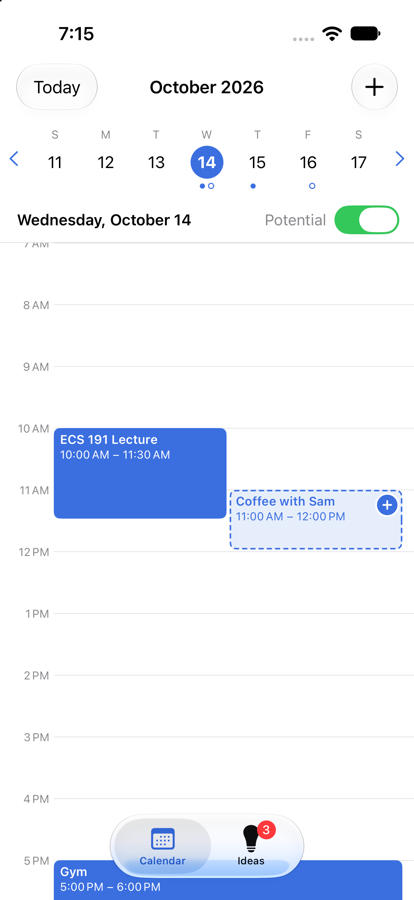
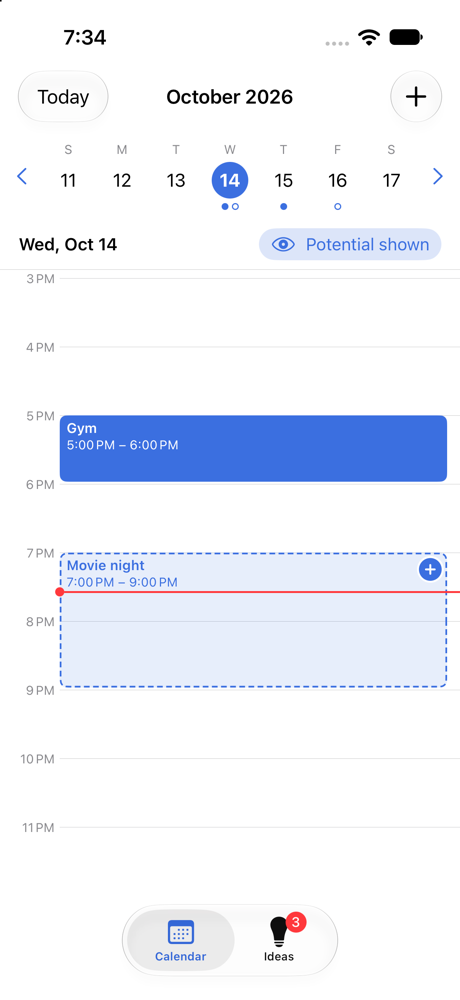
Fix bugs found in simulator testing
- Replace the potential-layer switch (could not be turned back on)
  with an eye button that shows how many plans are hidden
- Scroll the day view to the current time, the day's first plan, or a
  just-saved event so new plans are never off-screen
- Keep the date header on one line; center week-strip dots
- Add an empty-day hint and auto-focus the title for new events
- Haptic on confirm and VoiceOver labels for events and hours
- README: correct clone path, quick walkthrough, new screenshot

diff --git a/MaybeCalendar/CalendarView.swift b/MaybeCalendar/CalendarView.swift
@@ -3,28 +3,28 @@ import SwiftUI
 struct CalendarView: View {
     @Environment(Store.self) private var store
     @Binding var selectedDay: Date
+    /// When set, the timeline scrolls to this time (e.g. right after saving an event).
+    @Binding var focusDate: Date?
     @State private var editor: EditorRequest?
+    @State private var confirmCount = 0
 
     var body: some View {
-        @Bindable var store = store
-        let hiddenCount = store.showPotential ? 0
-            : store.events(on: selectedDay, includePotential: true).filter { $0.status == .potential }.count
+        let dayEvents = store.events(on: selectedDay, includePotential: true)
+        let visibleEvents = dayEvents.filter { store.showPotential || $0.status == .confirmed }
+        let hiddenCount = dayEvents.count - visibleEvents.count
 
         NavigationStack {
             VStack(spacing: 0) {
                 WeekStrip(selectedDay: $selectedDay)
 
                 HStack {
-                    Text(selectedDay.formatted(.dateTime.weekday(.wide).month(.wide).day()))
+                    Text(selectedDay.formatted(.dateTime.weekday(.abbreviated).month(.abbreviated).day()))
                         .font(.subheadline.bold())
+                        .lineLimit(1)
                     Spacer()
-                    Toggle(isOn: $store.showPotential) {
-                        Text(hiddenCount > 0 ? "Potential (\(hiddenCount) hidden)" : "Potential")
-                            .font(.subheadline)
-                            .foregroundStyle(.secondary)
+                    PotentialLayerButton(isShowing: store.showPotential, hiddenCount: hiddenCount) {
+                        withAnimation { store.showPotential.toggle() }
                     }
-                    .fixedSize()
-                    .accessibilityLabel("Show potential plans")
                 }
                 .padding(.horizontal)
                 .padding(.vertical, 8)
@@ -33,19 +33,40 @@ struct CalendarView: View {
 
                 DayTimeline(
                     day: selectedDay,
-                    events: store.events(on: selectedDay, includePotential: store.showPotential),
+                    events: visibleEvents,
+                    focusDate: $focusDate,
                     onTapHour: { hour in editor = .new(day: selectedDay, hour: hour) },
                     onTapEvent: { editor = .edit($0) },
                     onConfirm: { event in
                         withAnimation { store.confirm(event.id) }
+                        confirmCount += 1
                     }
                 )
+                .overlay(alignment: .top) {
+                    if visibleEvents.isEmpty {
+                        Text(hiddenCount > 0
+                             ? "Potential plans are hidden. Tap the eye button to show them."
+                             : "No plans yet. Tap an hour or + to add one.")
+                            .font(.footnote)
+                            .foregroundStyle(.secondary)
+                            .multilineTextAlignment(.center)
+                            .padding(.horizontal, 14)
+                            .padding(.vertical, 8)
+                            .background(.regularMaterial, in: Capsule())
+                            .padding(.top, 12)
+                            .padding(.horizontal)
+                            .allowsHitTesting(false)
+                    }
+                }
             }
             .navigationTitle(selectedDay.formatted(.dateTime.month(.wide).year()))
             .navigationBarTitleDisplayMode(.inline)
             .toolbar {
                 ToolbarItem(placement: .topBarLeading) {
-                    Button("Today") { selectedDay = .now }
+                    Button("Today") {
+                        selectedDay = .now
+                        focusDate = .now
+                    }
                 }
                 ToolbarItem(placement: .topBarTrailing) {
                     Button {
@@ -57,9 +78,39 @@ struct CalendarView: View {
                 }
             }
             .sheet(item: $editor) { request in
-                EventEditorView(request: request) { savedDate in selectedDay = savedDate }
+                EventEditorView(request: request) { savedDate in
+                    selectedDay = savedDate
+                    focusDate = savedDate
+                }
             }
+            .sensoryFeedback(.success, trigger: confirmCount)
         }
+    }
+}
+
+/// Shows or hides the potential-plans layer.
+struct PotentialLayerButton: View {
+    let isShowing: Bool
+    let hiddenCount: Int
+    let action: () -> Void
+
+    var body: some View {
+        Button(action: action) {
+            Label {
+                Text(isShowing ? "Potential shown"
+                     : hiddenCount > 0 ? "\(hiddenCount) potential hidden" : "Potential hidden")
+            } icon: {
+                Image(systemName: isShowing ? "eye" : "eye.slash")
+            }
+            .font(.subheadline)
+            .lineLimit(1)
+        }
+        .buttonStyle(.bordered)
+        .buttonBorderShape(.capsule)
+        .controlSize(.small)
+        .tint(isShowing ? .accentColor : .gray)
+        .accessibilityLabel("Show potential plans")
+        .accessibilityValue(isShowing ? "On" : "Off")
     }
 }
 
@@ -77,21 +128,26 @@ struct WeekStrip: View {
 
     var body: some View {
         HStack(spacing: 0) {
-            Button { shiftWeek(-1) } label: { Image(systemName: "chevron.left") }
-                .padding(.horizontal, 8)
-                .accessibilityLabel("Previous week")
+            Button { shiftWeek(-1) } label: {
+                Image(systemName: "chevron.left").frame(width: 32, height: 44)
+            }
+            .accessibilityLabel("Previous week")
 
             ForEach(days, id: \.self) { day in
                 dayCell(day)
                     .frame(maxWidth: .infinity)
                     .contentShape(Rectangle())
                     .onTapGesture { selectedDay = day }
+                    .accessibilityElement(children: .combine)
+                    .accessibilityAddTraits(.isButton)
             }
 
-            Button { shiftWeek(1) } label: { Image(systemName: "chevron.right") }
-                .padding(.horizontal, 8)
-                .accessibilityLabel("Next week")
+            Button { shiftWeek(1) } label: {
+                Image(systemName: "chevron.right").frame(width: 32, height: 44)
+            }
+            .accessibilityLabel("Next week")
         }
+        .padding(.horizontal, 4)
         .padding(.vertical, 8)
         .gesture(
             DragGesture(minimumDistance: 30).onEnded { value in
@@ -119,9 +175,14 @@ struct WeekStrip: View {
                 .frame(width: 32, height: 32)
                 .background(Circle().fill(isSelected ? Color.accentColor : .clear))
             HStack(spacing: 3) {
-                Circle().fill(Color.accentColor).frame(width: 5, height: 5).opacity(hasConfirmed ? 1 : 0)
-                Circle().strokeBorder(Color.accentColor, lineWidth: 1).frame(width: 6, height: 6).opacity(hasPotential ? 1 : 0)
+                if hasConfirmed {
+                    Circle().fill(Color.accentColor).frame(width: 6, height: 6)
+                }
+                if hasPotential {
+                    Circle().strokeBorder(Color.accentColor, lineWidth: 1).frame(width: 6, height: 6)
+                }
             }
+            .frame(height: 6)
         }
     }
 
@@ -135,9 +196,12 @@ struct WeekStrip: View {
 struct DayTimeline: View {
     let day: Date
     let events: [PlanEvent]
+    @Binding var focusDate: Date?
     let onTapHour: (Int) -> Void
     let onTapEvent: (PlanEvent) -> Void
     let onConfirm: (PlanEvent) -> Void
+
+    @State private var didInitialScroll = false
 
     private let hourHeight: CGFloat = 60
     private let labelWidth: CGFloat = 52
@@ -153,7 +217,47 @@ struct DayTimeline: View {
                 .frame(height: hourHeight * 24)
                 .padding(.vertical, 8)
             }
-            .onAppear { proxy.scrollTo(7, anchor: .top) }
+            .onAppear {
+                if let focusDate {
+                    scroll(proxy, toHour: hour(of: focusDate))
+                    self.focusDate = nil
+                } else if !didInitialScroll {
+                    scroll(proxy, toHour: defaultHour, animated: false)
+                }
+                didInitialScroll = true
+            }
+            .onChange(of: focusDate) { _, newValue in
+                guard let newValue else { return }
+                scroll(proxy, toHour: hour(of: newValue))
+                focusDate = nil
+            }
+            .onChange(of: Calendar.current.startOfDay(for: day)) {
+                // A save that changes the day also sets focusDate; let that win.
+                guard focusDate == nil else { return }
+                scroll(proxy, toHour: defaultHour)
+            }
+        }
+    }
+
+    /// Where to start when opening a day: just before now if it's today,
+    /// otherwise just before the first event, otherwise 8am.
+    private var defaultHour: Int {
+        if Calendar.current.isDateInToday(day) { return hour(of: .now) }
+        if let first = events.first { return hour(of: first.start) }
+        return 8
+    }
+
+    private func hour(of date: Date) -> Int {
+        Calendar.current.component(.hour, from: date)
+    }
+
+    private func scroll(_ proxy: ScrollViewProxy, toHour hour: Int, animated: Bool = true) {
+        // Show the hour before as context, and leave room so the hour label isn't clipped.
+        let target = max(hour - 1, 0)
+        if animated {
+            withAnimation { proxy.scrollTo(target, anchor: UnitPoint(x: 0, y: 0.05)) }
+        } else {
+            proxy.scrollTo(target, anchor: UnitPoint(x: 0, y: 0.05))
         }
     }
 
@@ -166,11 +270,14 @@ struct DayTimeline: View {
                         .foregroundStyle(.secondary)
                         .frame(width: labelWidth - 4, alignment: .trailing)
                         .offset(y: -6)
-                    VStack { Divider() ; Spacer() }
+                    VStack { Divider(); Spacer() }
                 }
                 .frame(height: hourHeight)
                 .contentShape(Rectangle())
                 .onTapGesture { onTapHour(hour) }
+                .accessibilityElement(children: .ignore)
+                .accessibilityLabel("Add event at \(hourLabel(hour).isEmpty ? "midnight" : hourLabel(hour))")
+                .accessibilityAddTraits(.isButton)
                 .id(hour)
             }
         }
@@ -187,6 +294,7 @@ struct DayTimeline: View {
                     .frame(width: laneWidth - 3, height: max(bottom - top - 2, 26))
                     .offset(x: labelWidth + laneWidth * CGFloat(placed.lane), y: top)
                     .onTapGesture { onTapEvent(placed.event) }
+                    .accessibilityAction(named: "Edit") { onTapEvent(placed.event) }
             }
         }
     }
@@ -200,6 +308,7 @@ struct DayTimeline: View {
         .padding(.leading, labelWidth - 4)
         .offset(y: y - 4)
         .allowsHitTesting(false)
+        .accessibilityHidden(true)
     }
 
     private func hourLabel(_ hour: Int) -> String {
@@ -241,9 +350,10 @@ struct EventBlock: View {
                         .font(.title3)
                         .foregroundStyle(Color.accentColor)
                         .background(Circle().fill(.white))
+                        .padding(3)
+                        .contentShape(Rectangle())
                 }
                 .buttonStyle(.plain)
-                .padding(3)
                 .accessibilityLabel("Confirm \(event.title)")
             }
         }
@@ -259,6 +369,7 @@ struct EventBlock: View {
         .contentShape(RoundedRectangle(cornerRadius: 6))
         .accessibilityElement(children: .contain)
         .accessibilityLabel("\(event.title), \(event.status.label)")
+        .accessibilityAddTraits(.isButton)
     }
 }
 

diff --git a/MaybeCalendar/EventEditorView.swift b/MaybeCalendar/EventEditorView.swift
@@ -43,6 +43,7 @@ struct EventEditorView: View {
     @State private var notes: String
     @State private var keepIdea = false
     @State private var confirmingDelete = false
+    @FocusState private var titleFocused: Bool
 
     init(request: EditorRequest, onSaved: @escaping (Date) -> Void = { _ in }) {
         self.request = request
@@ -70,6 +71,8 @@ struct EventEditorView: View {
             Form {
                 Section {
                     TextField("Title", text: $title)
+                        .focused($titleFocused)
+                        .submitLabel(.done)
                 }
 
                 Section {
@@ -122,6 +125,12 @@ struct EventEditorView: View {
                 ToolbarItem(placement: .confirmationAction) {
                     Button("Save", action: save).disabled(!canSave)
                 }
+            }
+            .task {
+                // Open the keyboard right away for a brand-new, untitled event.
+                guard request.isNew, title.isEmpty else { return }
+                try? await Task.sleep(for: .milliseconds(450))
+                titleFocused = true
             }
             .confirmationDialog("Delete this event?", isPresented: $confirmingDelete, titleVisibility: .visible) {
                 Button("Delete", role: .destructive) {

diff --git a/MaybeCalendar/MaybeCalendarApp.swift b/MaybeCalendar/MaybeCalendarApp.swift
@@ -28,13 +28,14 @@ struct ContentView: View {
     @Environment(Store.self) private var store
     @State private var tab = AppTab.calendar
     @State private var selectedDay = Date.now
+    @State private var focusDate: Date?
 
     var body: some View {
         TabView(selection: $tab) {
-            CalendarView(selectedDay: $selectedDay)
+            CalendarView(selectedDay: $selectedDay, focusDate: $focusDate)
                 .tabItem { Label("Calendar", systemImage: "calendar") }
                 .tag(AppTab.calendar)
-            IdeasView(selectedDay: $selectedDay, tab: $tab)
+            IdeasView(selectedDay: $selectedDay, focusDate: $focusDate, tab: $tab)
                 .tabItem { Label("Ideas", systemImage: "lightbulb") }
                 .tag(AppTab.ideas)
                 .badge(store.ideas.count)

diff --git a/MaybeCalendar/IdeasView.swift b/MaybeCalendar/IdeasView.swift
@@ -3,6 +3,7 @@ import SwiftUI
 struct IdeasView: View {
     @Environment(Store.self) private var store
     @Binding var selectedDay: Date
+    @Binding var focusDate: Date?
     @Binding var tab: AppTab
 
     @State private var newIdea = ""
@@ -56,6 +57,7 @@ struct IdeasView: View {
             .sheet(item: $editor) { request in
                 EventEditorView(request: request) { savedDate in
                     selectedDay = savedDate
+                    focusDate = savedDate
                     tab = .calendar
                 }
             }

diff --git a/README.md b/README.md
@@ -12,8 +12,8 @@ Built natively in Swift with SwiftUI.
 
 1. Clone the repository:
    ```bash
-   git clone <this-repo-url>
-   cd maybe-calendar
+   git clone https://github.com/MayaKusumakar/Software-Design-Project.git
+   cd Software-Design-Project
    ```
 2. Open `MaybeCalendar.xcodeproj` in Xcode.
 3. In the toolbar, pick the **MaybeCalendar** scheme and an iPhone simulator (for example **iPhone 17**).
@@ -33,21 +33,29 @@ To see the app filled in right away, edit the scheme (**Product → Scheme → E
 
 The app has two tabs: **Calendar** and **Ideas**.
 
+### Try the core features in one minute
+1. On the **Calendar** tab, tap an empty hour and save an event as **Confirmed**: it appears as a solid block.
+2. Tap another hour, set the status to **Potential**, and save: it appears as a dashed, see-through block.
+3. Tap the **Potential shown** button under the week strip to hide potential plans, then tap it again to bring them back.
+4. Tap the **⊕** on the dashed block to commit to it: it turns solid.
+5. Go to the **Ideas** tab, add an idea, and tap **Schedule**. Save it, and the app jumps back to the calendar with the idea placed as a potential plan.
+
 ### Calendar tab
 - **Pick a day** from the week strip at the top. Use the arrows (or swipe the strip) to change weeks, and **Today** to jump back.
   - A filled dot under a day means it has confirmed plans; a hollow dot means it has potential plans.
+  - The day view opens at the current time for today, or at the first plan for other days.
 - **Add an event:** tap **+** in the top-right, or tap any empty hour in the timeline to start an event at that time.
 - **Edit or delete an event:** tap it. The editor lets you change the title, date, start/end time, status, and notes, and has a **Delete Event** button.
 - **Confirmed vs. potential:** every event has a status.
   - **Confirmed** events are solid blue blocks.
   - **Potential** events are transparent with a dashed border.
 - **Commit to a potential plan:** tap the **⊕** button on its block. It becomes confirmed immediately.
-- **Show / hide potential plans:** use the **Potential** switch under the week strip. When it's off, the label shows how many potential plans are hidden for that day.
+- **Show / hide potential plans:** tap the eye button under the week strip (**Potential shown** / **Potential hidden**). While hidden, it shows how many potential plans are hidden on that day. The setting is remembered.
 - Overlapping events are placed side by side so you can compare options for the same time slot.
 
 ### Ideas tab
 - **Add an idea:** type an activity (e.g. "Try the new ramen place") and tap **Add**. Ideas have no date.
-- **Schedule an idea:** tap **Schedule**. The event editor opens with the title filled in and the status set to **Potential**. Pick a date and time and tap **Save**, and the app switches to the Calendar tab on that day.
+- **Schedule an idea:** tap **Schedule**. The event editor opens with the title filled in and the status set to **Potential**. Pick a date and time and tap **Save**, and the app switches to the Calendar tab and scrolls to the new plan.
   - By default the idea is removed from the list once scheduled. Turn on **Keep in my ideas list** for things you do repeatedly.
 - **Remove an idea:** swipe left on it and tap **Delete**.
 
